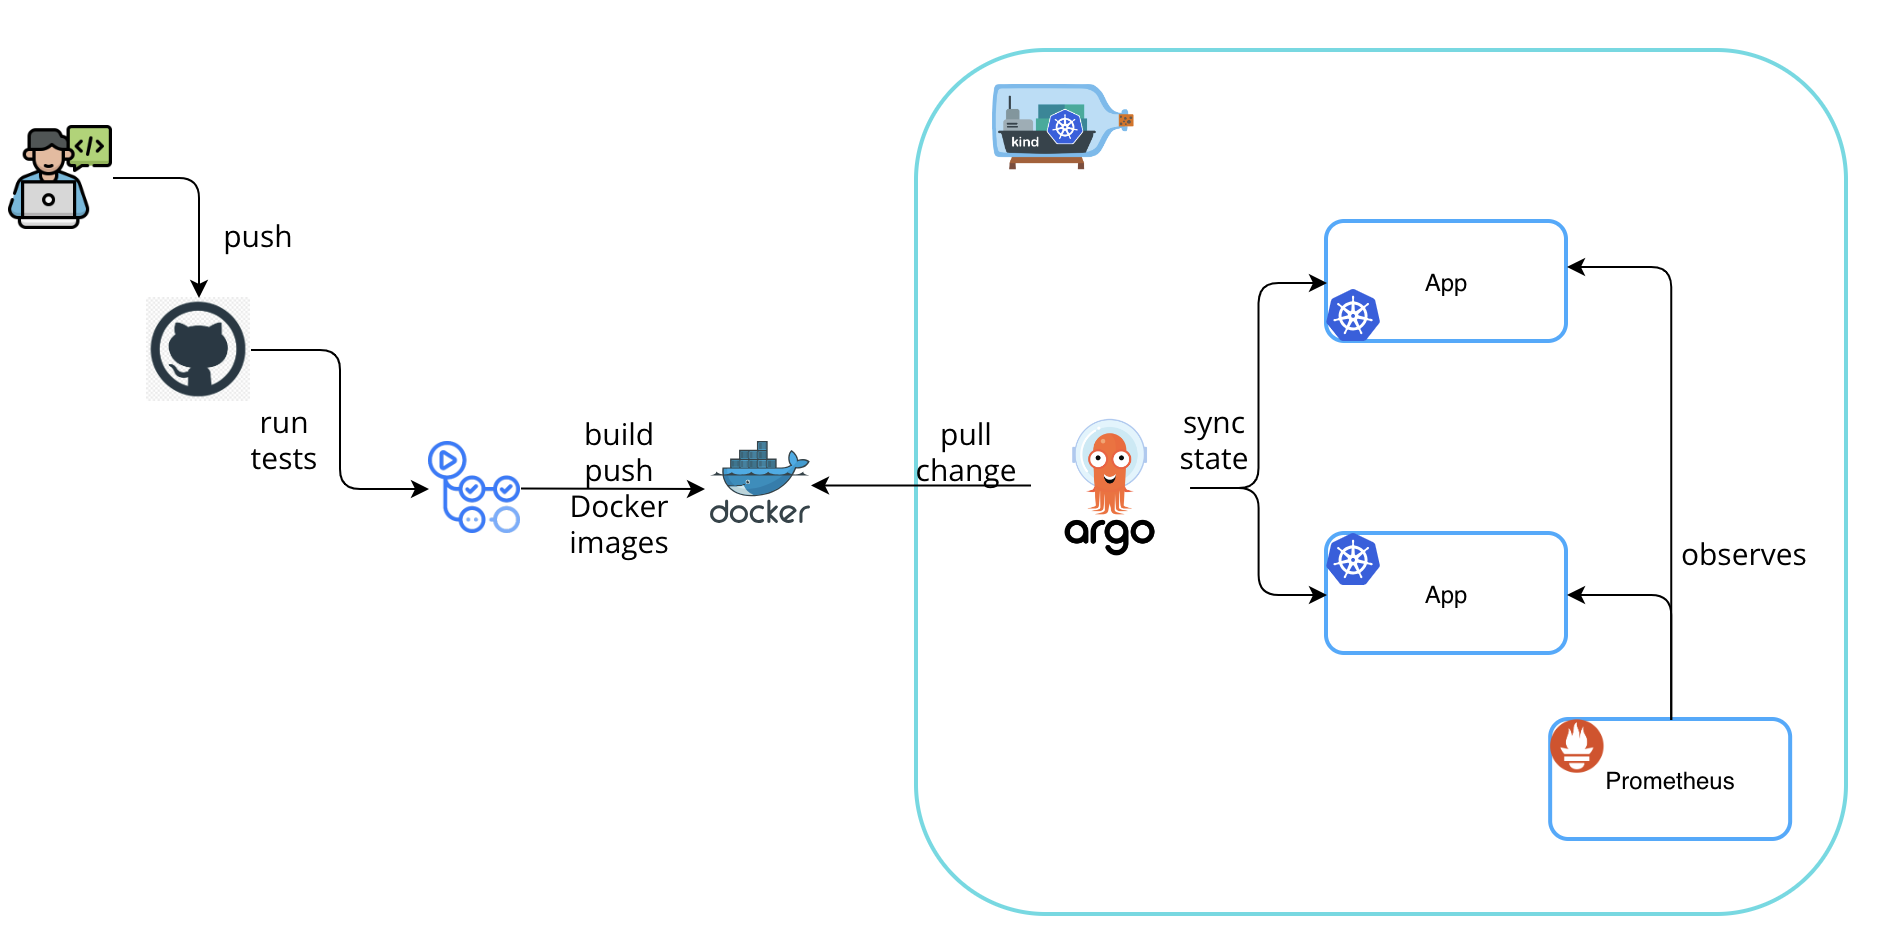
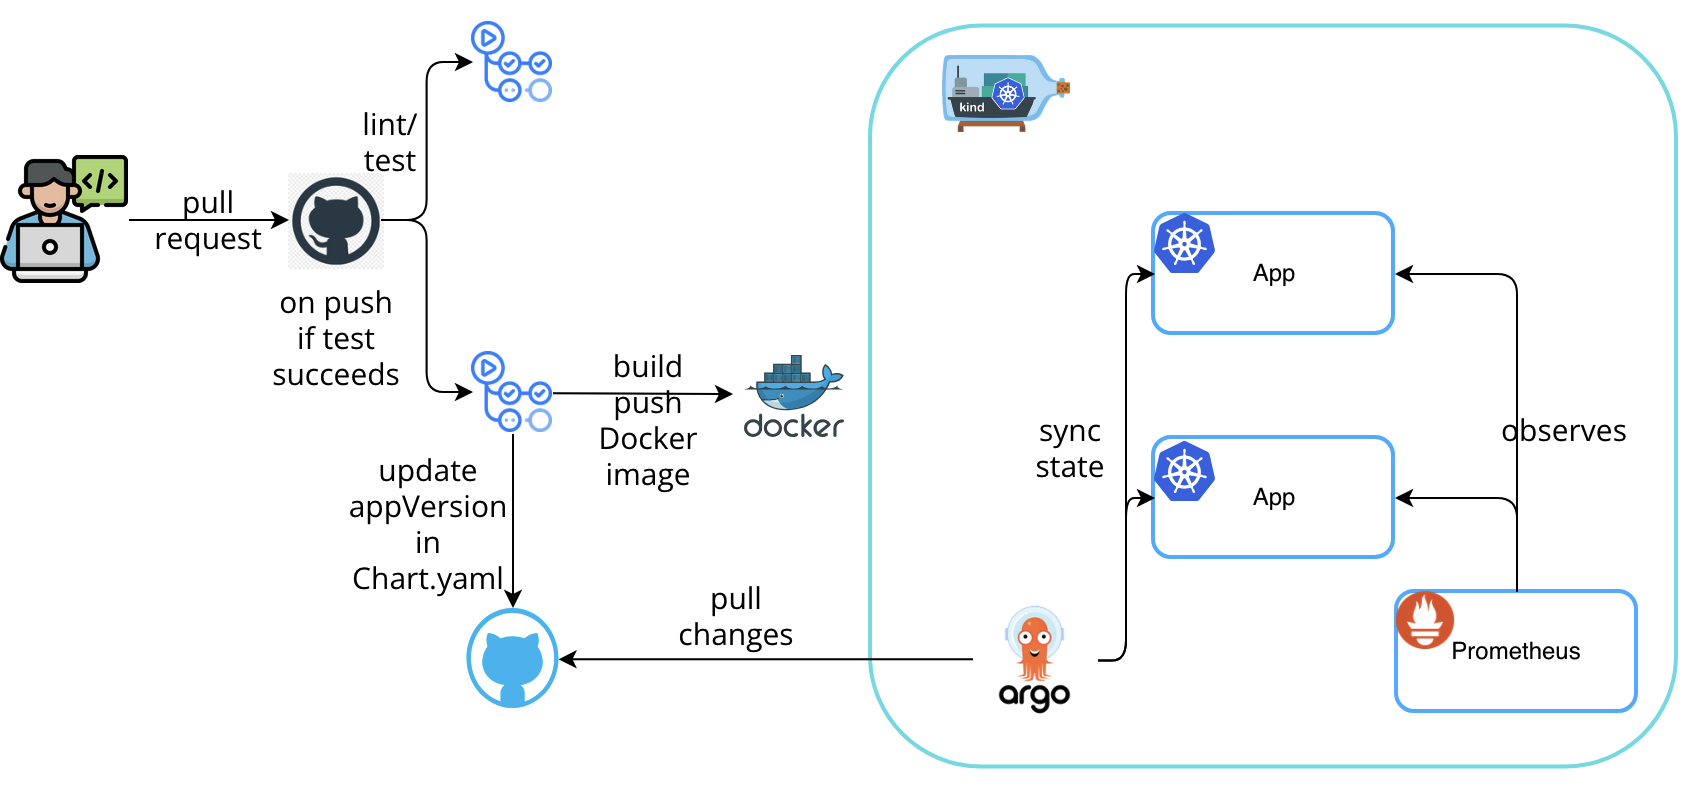
added cicd and docs cleanup

diff --git a/README.md b/README.md
@@ -4,27 +4,75 @@
 
 Playground projects dedicated for personal showcases and experimental projects in a local Kind Kubernetes cluster
 
+## Requirements
+```
+- python 3.12+
+- docker 
+- poetry 1.8.3+
+- terraform
+```
+
 ## Project Desciption
 
-The project is created to demonstrate a Devops oriented solution to automatically deploy a REST API on a local Kubernetes Cluster with observability and auto-scaling ability
+The project is created to demonstrate a Devops oriented solution to automatically build and deploy a REST API on a local Kubernetes Cluster with observability and auto-scaling ability
 
-![](/docs/images/project.png)
+![Project Description](/docs/images/project.png)
 
-## Technologies 
+### Technologies 
 
 - [KinD](https://kind.sigs.k8s.io/) - local Kubernetes Cluster
 - [Prometheus](https://prometheus.io/) - observability
 - [Github Actions](https://docs.github.com/en/actions) - CI to test, build and push images
 - [Docker](https://www.docker.com/) - Containers packaging 
-- [ArgoCD](https://argo-cd.readthedocs.io/en/stable/) for CD
+- [ArgoCD](https://argo-cd.readthedocs.io/en/stable/) - CD to deploy and sync applications
 - [Helm](https://helm.sh/) to manage Kubernetes deployments
 - [Terraform](https://developer.hashicorp.com/terraform) - Infrastructure as Code
 - [Python](https://www.python.org/) - FastAPI application scripting
+- [Postgresql](https://www.postgresql.org/) - Database
+
 
 ### Project Details
-1. Install local Kind Kubenertes Cluster using `./local-kind-cluster/start-cluster.sh` 
-The project will also pre-install a metrics stack comprising of `Prometheus`, `Grafana` and `AlertManager` that are browsable at
-- Prometheus Console: [http://localhost/prometheus/](http://localhost/prometheus/)
-- Grafana Dashboard: [http://localhost/grafana/](http://localhost/grafana/)
 
-and `Nginx Ingress Controller` for Kind
+| Project | Description |
+|-------------|-------------|
+| [local-kind-cluster](/local-kind-cluster/) | Stand up a local Kind Kubernetes cluster and pre-install base features for a successful deployment |
+| [url-shortener](/url-shortener/) | My simple web API to generate a short URL from a full URL and store it in a Postgressql database for demonstration purposes |
+| [argocd](/argocd/) | Install argoCD into the local kind cluster and hook it up with [argocd-apps](/argocd-apps/) to deploy and sync the web API application |
+| [argocd-apps](/argocd-apps/) | Contain helm charts to deploy postgresql and web API app using ArgoCD app-of-apps pattern |
+
+***Notes: Each of the project should have its own README.md for additional details***
+
+### Instructions
+Please feel free to fork the repo to explore the full solution including Github Actions and ArgoCD for CI/CD
+Or just simply clone the repo and follow the below instructions to explore Kubenertes, k8s resources deployments and ArgoCD in action
+
+1. Install local Kind Kubenertes Cluster using `./local-kind-cluster/start-cluster.sh` 
+The project will also pre-install the following:
+- Prometheus: [http://localhost/prometheus/](http://localhost/prometheus/)
+- Grafana: [http://localhost/grafana/](http://localhost/grafana/)
+- `Nginx Ingress Controller` for Kind
+- Secrets to be used by Postgresql and web API deployments
+
+2. Build and push web API docker image to Github Container Registry
+Navigate to `/url-shortener` to build and push the web API docker image to your GCR or modify the script to push to other registry of your choice
+Set `GITHUB_TOKEN` environment varible in the console to access the target GCR
+    export GITHUB_TOKEN=<PAT>
+
+Run the following script to build and push the image
+
+    tag=$(poetry version --short)
+    ./docker-build-push.sh` -t $tag -r <registry repo name> -u <registry username>
+
+On success, a package should be available in the target GRC
+![](/docs/images/package.png)
+
+3. Deploy ArgoCD for CD solution and connect it to the api deployment helm charts
+ArgoCD supports different method to connect to a particular repo such as using `ssh`, `https` or `github app`. For this demonstration, we will use github App
+- Click on Github Profile on the top right corner > Settings > Developer setting > Github Apps > New Github App
+- Fill in the `Github App name`, Homepage URL for your personal website, if not available, use your github URL
+- Select repository permissions: `Contents: Read Write`. Permission can be adjusted afterward as needed
+- Rename the `pem` file to `argocdplayground.private-key.pem` and save the private key in `/files` 
+- Run `terraform apply` to start deploying argoCD into the local k8s cluster
+
+On successful deployment
+<TODO>

diff --git a/argocd/README.md b/argocd/README.md
@@ -1,0 +1,50 @@
+# ArgoCD
+
+The project contains an ArgoCD module to facilitate the ArgoCD deployment using [argo-cd helmchart](https://github.com/argoproj/argo-helm/tree/main/charts/argo-cd)
+It also provides the ability to deploy argoCD Applications, Projects, or ApplicationSet using [argocd-apps helm chart](https://github.com/argoproj/argo-helm/tree/main/charts/argocd-apps)
+
+## Repo Connection
+To allow ArgoCD to connect to a particular repo, use `var.repository_secrets` that supports the repo connection methods noted in https://argo-cd.readthedocs.io/en/stable/operator-manual/declarative-setup/#repositories
+
+See below the example of using ssh and github app for repo connection
+
+## Example
+
+```
+module "argocd" {
+  source = "./module/"
+
+  name = "argocd"
+  repository_secrets = [
+    {
+      name = "ssh-argo-secret"
+      labels = {
+        "argocd.argoproj.io/secret-type" = "repo-creds"
+      }
+      data = {
+        "type"          = "git"
+        "url"           = "<ssh_git_repo_url>" # e.g git@github.com:argoproj
+        "sshPrivateKey" = <ssh_private_key_value>
+      }
+    },
+    {
+      name = "githubapp"
+      labels = {
+        "argocd.argoproj.io/secret-type" = "repo-creds"
+      }
+      data = {
+        "type" = "git"
+        "url"  = "https://github.com/reponame"
+
+        "githubAppID"             = 980837
+        "githubAppInstallationID" = 54223861
+        "githubAppPrivateKey"     = file("${path.module}/files/argocdplayground.private-key.pem")
+      }
+    }
+  ]
+  argocd_apps_enabled     = true
+  argocd_apps_helm_values = file("${path.module}/files/applications.yaml")
+  argocd_cm_data          = file("${path.module}/files/argo-cm-data.yaml")
+}
+
+```

diff --git a/url-shortener/README.md b/url-shortener/README.md
@@ -11,7 +11,7 @@ A simple web API to generate a short URL from a full URL and store it in a Postg
 
 ## Local Developments
 - Ensure poetry is installed
-- Ensure `.env` exists in root `url-shortener` 
+- Rename `.env.dev` to `.env` to load required environment variables
 
 ## Create Virtual Environment:
 Run the following command from the root `url-shortener`:
@@ -56,3 +56,21 @@ This option facilitates a quick local testing without having to run multiple dif
 During the development phase, various data may be added to the database and stored in the specified Docker volumes. To reset this data, run the following command to remove the containers and also destroy the volumes.
 
     docker-compose down --volume
+
+## Docker
+This project uses Github Container Registry (GCR) to store the the image
+
+Set `GITHUB_TOKEN` environment varible in the console to access the target GCR
+    export GITHUB_TOKEN=<PAT>
+
+Run the following script to build and push the image as needed
+    `./docker-build-push.sh` -t <tag> -r <registry repo name> -u <registry username>`
+
+On success, a package should be available in the target GRC
+![](../docs/images/package.png)
+
+## CI/CD
+Once development work is done, run `poetry version <new version>` to upgrade the app version in `pyproject.toml`. CICD will use this version to update the API deployment helmchart
+Create a PR for the change
+[api-ci.yml](../.github/api-ci.yml) is triggered on PR creation to run `lint` and `test`
+[api-cd.yml](../.github/api-cd.yml) is triggered on PR merged to build and push the Docker image to Github container registry of the repo
